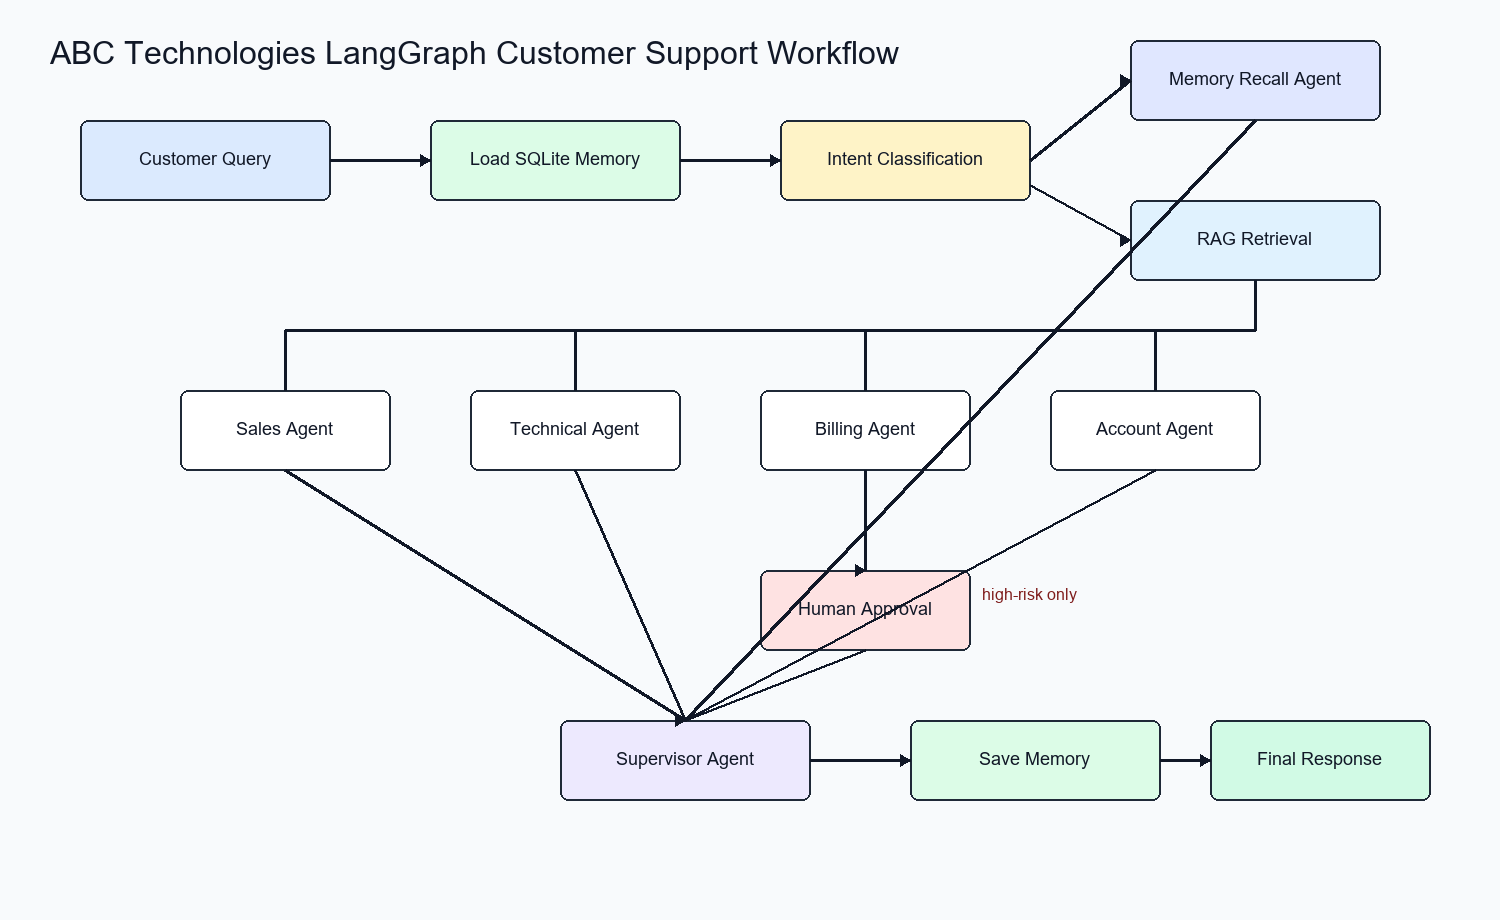
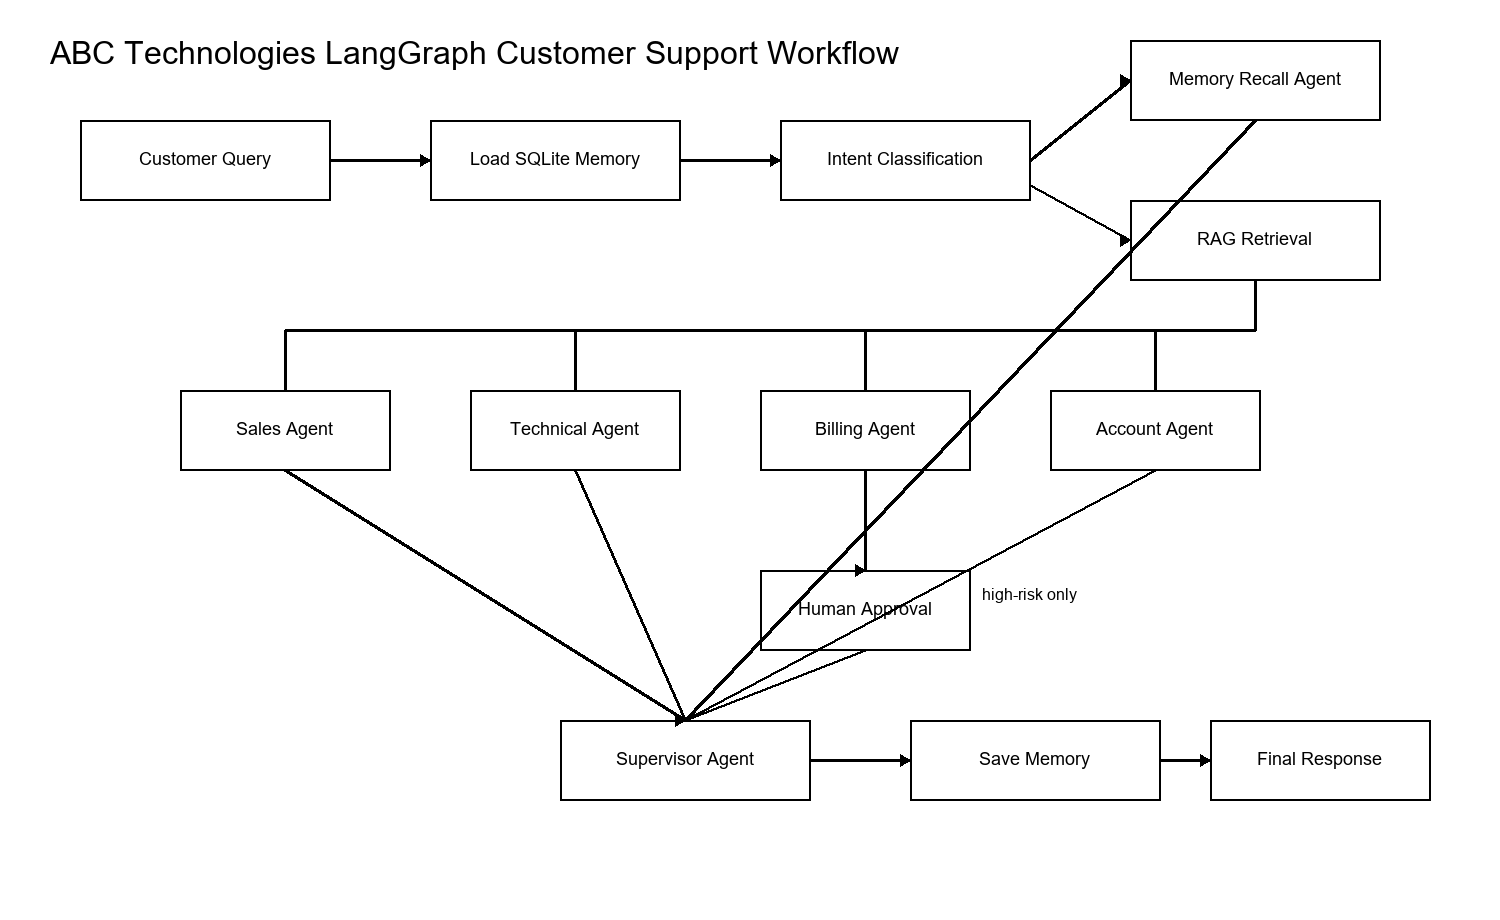
Restyle report with black and white diagram placeholders

diff --git a/src/generate_word_doc.py b/src/generate_word_doc.py
@@ -22,7 +22,7 @@ def set_cell_text(cell, text: str, bold: bool = False) -> None:
 def add_heading(document: Document, text: str, level: int = 1) -> None:
     heading = document.add_heading(text, level=level)
     for run in heading.runs:
-        run.font.color.rgb = RGBColor(31, 78, 121)
+        run.font.color.rgb = RGBColor(0, 0, 0)
 
 
 def add_bullets(document: Document, items: list[str]) -> None:
@@ -45,14 +45,8 @@ def add_screenshot_placeholder(document: Document, title: str, expected_path: st
     table = document.add_table(rows=1, cols=1)
     table.style = "Table Grid"
     cell = table.rows[0].cells[0]
-    paragraph = cell.paragraphs[0]
-    run = paragraph.add_run("Paste screenshot here")
-    run.bold = True
-    run.font.size = Pt(14)
-    paragraph.alignment = WD_ALIGN_PARAGRAPH.CENTER
-    cell.add_paragraph("Screenshot must show the terminal input and output for this query.")
-    for point in proof_points:
-        cell.add_paragraph(point, style="List Bullet")
+    for _ in range(8):
+        cell.add_paragraph("")
 
 
 def build_doc() -> Path:
@@ -68,15 +62,15 @@ def build_doc() -> Path:
     run = title.add_run("AI-Powered Customer Support Automation System")
     run.bold = True
     run.font.size = Pt(22)
-    run.font.color.rgb = RGBColor(31, 78, 121)
+    run.font.color.rgb = RGBColor(0, 0, 0)
 
     subtitle = document.add_paragraph()
     subtitle.alignment = WD_ALIGN_PARAGRAPH.CENTER
     sub = subtitle.add_run("ABC Technologies | LangGraph Project Documentation")
     sub.font.size = Pt(12)
-    sub.font.color.rgb = RGBColor(89, 89, 89)
+    sub.font.color.rgb = RGBColor(0, 0, 0)
 
-    add_heading(document, "Project Overview")
+    add_heading(document, "1. Project Brief")
     document.add_paragraph(
         "ABC Technologies receives customer support requests for product information, technical issues, "
         "billing queries, account management, and refunds. This project implements a LangGraph workflow "
@@ -84,7 +78,7 @@ def build_doc() -> Path:
         "uses SQLite conversation memory, handles high-risk approval, and generates a supervised final response."
     )
 
-    add_heading(document, "Business Requirements Covered")
+    add_heading(document, "2. Requirements Covered")
     add_bullets(
         document,
         [
@@ -98,7 +92,7 @@ def build_doc() -> Path:
         ],
     )
 
-    add_heading(document, "LangGraph Workflow")
+    add_heading(document, "3. Workflow Diagram")
     document.add_paragraph(
         "The workflow starts with SQLite memory loading, then classifies intent. Department requests use RAG retrieval "
         "before reaching a specialized support agent. High-risk requests pass through human approval. All responses are "
@@ -109,7 +103,7 @@ def build_doc() -> Path:
         document.add_picture(str(diagram), width=Inches(6.8))
         document.paragraphs[-1].alignment = WD_ALIGN_PARAGRAPH.CENTER
 
-    add_heading(document, "State Structure")
+    add_heading(document, "4. State Structure")
     table = document.add_table(rows=1, cols=2)
     table.style = "Table Grid"
     set_cell_text(table.rows[0].cells[0], "State Field", True)
@@ -129,7 +123,7 @@ def build_doc() -> Path:
         set_cell_text(row[0], field)
         set_cell_text(row[1], purpose)
 
-    add_heading(document, "Task Coverage")
+    add_heading(document, "5. Task Coverage")
     task_table = document.add_table(rows=1, cols=3)
     task_table.style = "Table Grid"
     for idx, label in enumerate(["Task", "Requirement", "Implementation"]):
@@ -152,7 +146,7 @@ def build_doc() -> Path:
         set_cell_text(row[1], requirement)
         set_cell_text(row[2], implementation)
 
-    add_heading(document, "Knowledge Base Documents")
+    add_heading(document, "6. Knowledge Base Documents")
     add_bullets(
         document,
         [
@@ -163,20 +157,20 @@ def build_doc() -> Path:
         ],
     )
 
-    add_heading(document, "Human-in-the-Loop Approval")
+    add_heading(document, "7. Human Approval")
     document.add_paragraph(
         "The system marks refund requests, subscription cancellation, account closure, compensation, and management escalation "
         "as high-risk. These requests are not finalized directly by the support agent; they route to the human approval node "
         "before supervisor validation."
     )
 
-    add_heading(document, "SQLite Memory")
+    add_heading(document, "8. SQLite Memory")
     document.add_paragraph(
         "The SQLite database contains a conversations table with customer ID, query, intent, response, and timestamp. "
         "The memory recall query retrieves the customer's most recent previous issue."
     )
 
-    add_heading(document, "Demonstration Results")
+    add_heading(document, "9. Demonstration Results")
     demo_table = document.add_table(rows=1, cols=4)
     demo_table.style = "Table Grid"
     for idx, label in enumerate(["Query", "Expected Path", "Actual Route", "Result"]):
@@ -195,21 +189,7 @@ def build_doc() -> Path:
         set_cell_text(row[2], actual)
         set_cell_text(row[3], result)
 
-    add_heading(document, "Input and Output Screenshots")
-    document.add_paragraph(
-        "The following screenshots show the actual demo execution for each required sample query, including input, route, approval status, trace, retrieved context, and final response."
-    )
-    for idx in range(1, 6):
-        screenshot = ARTIFACTS / f"demo_query_{idx}_screenshot.png"
-        if screenshot.exists():
-            document.add_paragraph(f"Query {idx} execution screenshot")
-            document.add_picture(str(screenshot), width=Inches(6.8))
-
-    add_heading(document, "Screenshots to Paste")
-    document.add_paragraph(
-        "Use these slots for your own terminal screenshots after running python src\\run_demo.py. "
-        "Paste one screenshot per query in the same order as the assignment."
-    )
+    add_heading(document, "10. Screenshots")
     screenshot_slots = [
         (
             "Query 1 Screenshot - Pricing Plans",
@@ -265,20 +245,20 @@ def build_doc() -> Path:
     for title, expected_path, points in screenshot_slots:
         add_screenshot_placeholder(document, title, expected_path, points)
 
-    add_heading(document, "Source Code")
+    add_heading(document, "11. Source Code")
     support_code = (ROOT / "src" / "support_system.py").read_text(encoding="utf-8")
     run_demo_code = (ROOT / "src" / "run_demo.py").read_text(encoding="utf-8")
     add_code_block(document, "Main LangGraph Workflow Code", support_code)
     add_code_block(document, "Demo Runner Code", run_demo_code)
 
-    add_heading(document, "Submission Files")
+    add_heading(document, "12. Submission Files")
     add_bullets(
         document,
         [
             "Source code: src/support_system.py, src/run_demo.py, src/generate_artifacts.py, src/generate_word_doc.py.",
             "README.md: setup steps and run instructions.",
             "Workflow diagram: artifacts/workflow_diagram.png.",
-            "Screenshots PDF: artifacts/screenshots.pdf.",
+            "Screenshot slots: included in Section 10 for manually pasted terminal screenshots.",
             "SQLite memory: artifacts/memory.db and artifacts/memory_schema.sql.",
             "Demo output: artifacts/demo_output.txt.",
         ],

diff --git a/src/generate_artifacts.py b/src/generate_artifacts.py
@@ -23,7 +23,7 @@ def font(size: int) -> ImageFont.FreeTypeFont | ImageFont.ImageFont:
 
 
 def draw_box(draw: ImageDraw.ImageDraw, xy: tuple[int, int, int, int], text: str, fill: str) -> None:
-    draw.rounded_rectangle(xy, radius=8, fill=fill, outline="#1f2937", width=2)
+    draw.rectangle(xy, fill="white", outline="black", width=2)
     x1, y1, x2, y2 = xy
     lines = textwrap.wrap(text, width=24)
     line_height = 24
@@ -31,20 +31,20 @@ def draw_box(draw: ImageDraw.ImageDraw, xy: tuple[int, int, int, int], text: str
     y = y1 + ((y2 - y1) - total_height) // 2
     for line in lines:
         bbox = draw.textbbox((0, 0), line, font=font(18))
-        draw.text((x1 + ((x2 - x1) - (bbox[2] - bbox[0])) // 2, y), line, fill="#111827", font=font(18))
+        draw.text((x1 + ((x2 - x1) - (bbox[2] - bbox[0])) // 2, y), line, fill="black", font=font(18))
         y += line_height
 
 
 def draw_arrow(draw: ImageDraw.ImageDraw, start: tuple[int, int], end: tuple[int, int]) -> None:
-    draw.line([start, end], fill="#111827", width=3)
+    draw.line([start, end], fill="black", width=3)
     x, y = end
-    draw.polygon([(x, y), (x - 10, y - 6), (x - 10, y + 6)], fill="#111827")
+    draw.polygon([(x, y), (x - 10, y - 6), (x - 10, y + 6)], fill="black")
 
 
 def make_workflow_diagram() -> None:
-    image = Image.new("RGB", (1500, 920), "#f8fafc")
+    image = Image.new("RGB", (1500, 920), "white")
     draw = ImageDraw.Draw(image)
-    draw.text((50, 35), "ABC Technologies LangGraph Customer Support Workflow", fill="#111827", font=font(32))
+    draw.text((50, 35), "ABC Technologies LangGraph Customer Support Workflow", fill="black", font=font(32))
 
     boxes = {
         "Customer Query": (80, 120, 330, 200),
@@ -62,29 +62,17 @@ def make_workflow_diagram() -> None:
         "Final Response": (1210, 720, 1430, 800),
     }
 
-    fills = {
-        "Customer Query": "#dbeafe",
-        "Load SQLite Memory": "#dcfce7",
-        "Intent Classification": "#fef3c7",
-        "Memory Recall Agent": "#e0e7ff",
-        "RAG Retrieval": "#e0f2fe",
-        "Human Approval": "#fee2e2",
-        "Supervisor Agent": "#ede9fe",
-        "Save Memory": "#dcfce7",
-        "Final Response": "#d1fae5",
-    }
-
     for label, xy in boxes.items():
-        draw_box(draw, xy, label, fills.get(label, "#ffffff"))
+        draw_box(draw, xy, label, "white")
 
     draw_arrow(draw, (330, 160), (430, 160))
     draw_arrow(draw, (680, 160), (780, 160))
     draw_arrow(draw, (1030, 160), (1130, 80))
     draw_arrow(draw, (1030, 185), (1130, 240))
     for x in [285, 575, 865, 1155]:
-        draw.line([(1255, 280), (1255, 330), (x, 330), (x, 390)], fill="#111827", width=3)
+        draw.line([(1255, 280), (1255, 330), (x, 330), (x, 390)], fill="black", width=3)
     draw_arrow(draw, (865, 470), (865, 570))
-    draw.text((982, 585), "high-risk only", fill="#7f1d1d", font=font(16))
+    draw.text((982, 585), "high-risk only", fill="black", font=font(16))
     for start in [(285, 470), (575, 470), (1155, 470), (865, 650), (1255, 120)]:
         draw_arrow(draw, start, (685, 720))
     draw_arrow(draw, (810, 760), (910, 760))
@@ -168,8 +156,6 @@ def main() -> None:
     verify_db()
     make_workflow_diagram()
     make_schema_file()
-    make_demo_screenshot_images()
-    make_screenshots_pdf()
 
 
 if __name__ == "__main__":

diff --git a/README.md b/README.md
@@ -27,7 +27,6 @@ docs/
   documentation_report.md
 artifacts/
   workflow_diagram.png
-  screenshots.pdf
   demo_output.txt
   memory.db
 ```
@@ -55,4 +54,3 @@ The demo creates `artifacts/memory.db` and writes execution output to `artifacts
 3. My application crashes whenever I upload a file.
 4. I need a refund for my annual subscription.
 5. What was my previous support issue?
-